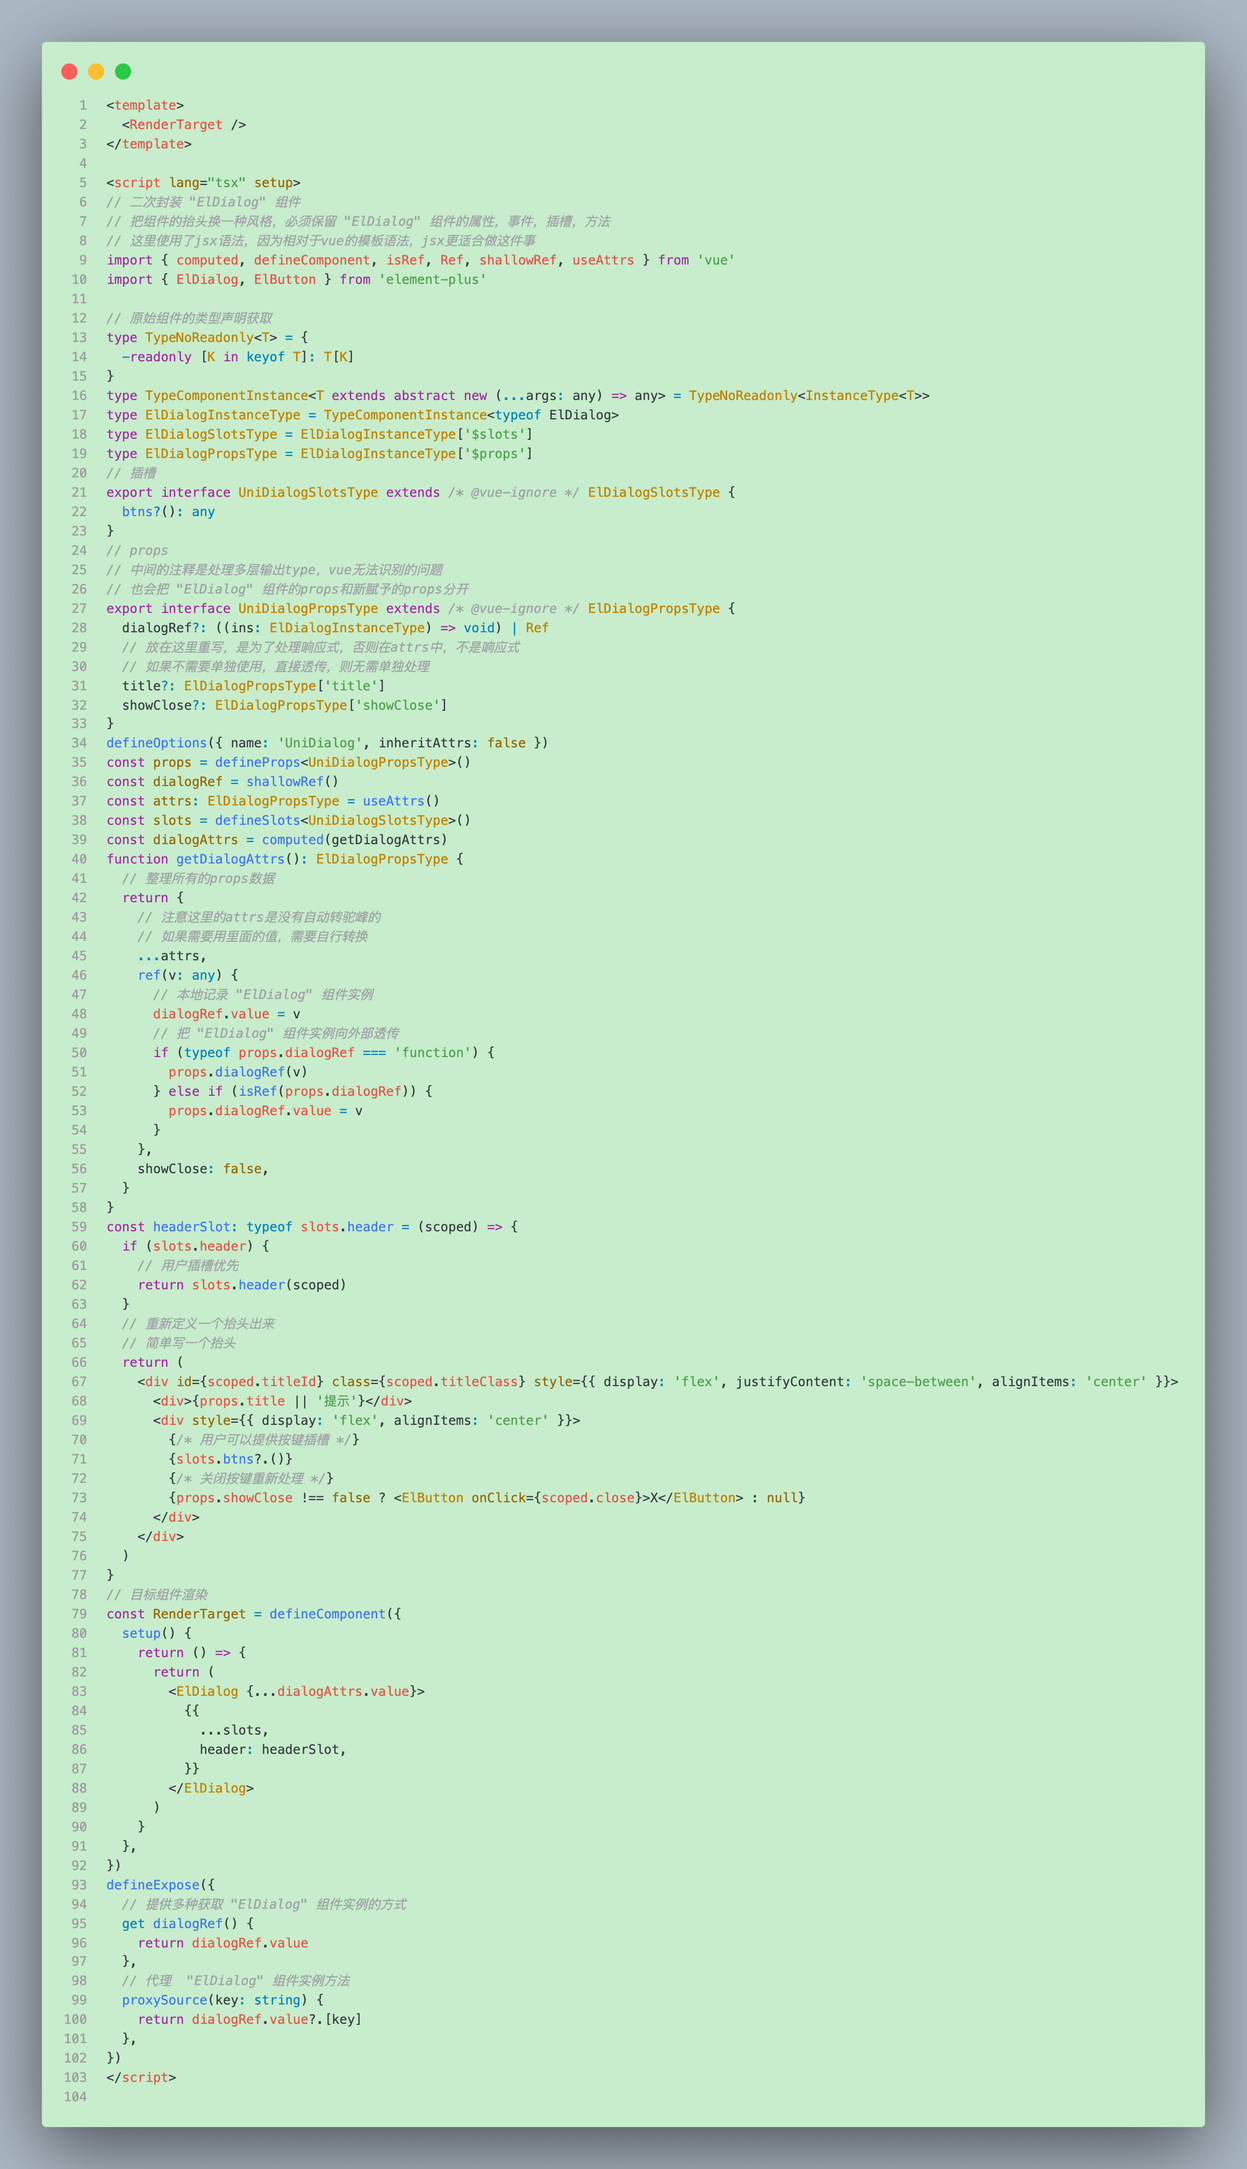
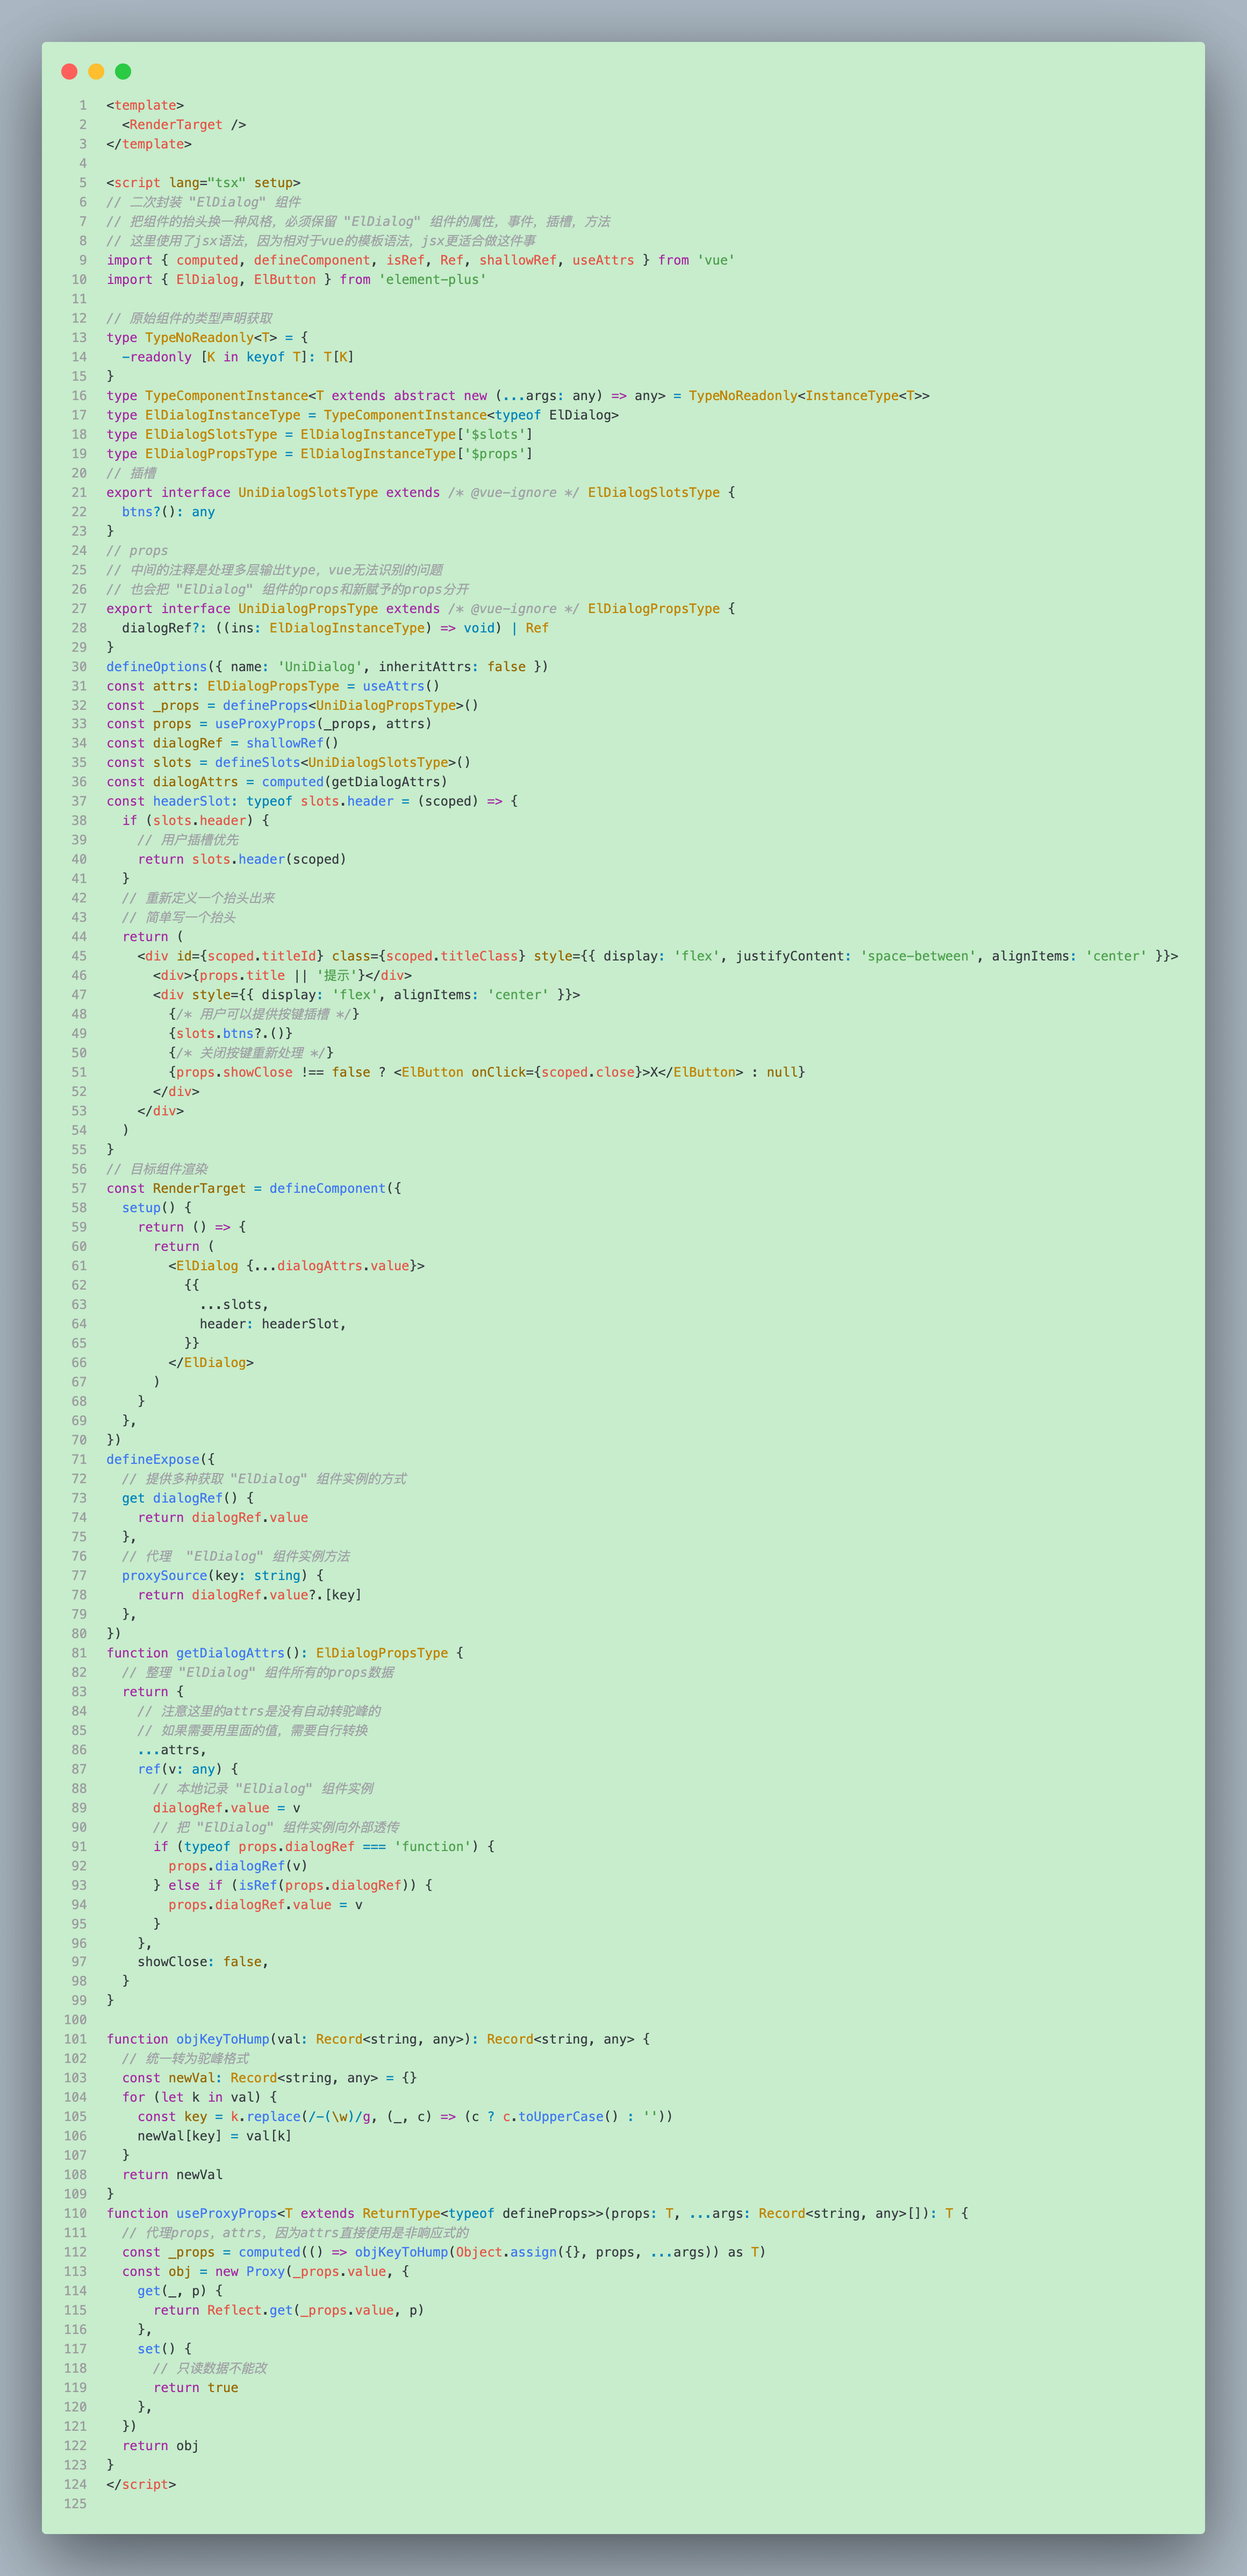
代理props

diff --git a/src/UniDialog.vue b/src/UniDialog.vue
@@ -26,36 +26,14 @@ export interface UniDialogSlotsType extends /* @vue-ignore */ ElDialogSlotsType 
 // 也会把 "ElDialog" 组件的props和新赋予的props分开
 export interface UniDialogPropsType extends /* @vue-ignore */ ElDialogPropsType {
   dialogRef?: ((ins: ElDialogInstanceType) => void) | Ref
-  // 放在这里重写，是为了处理响应式，否则在attrs中，不是响应式
-  // 如果不需要单独使用，直接透传，则无需单独处理
-  title?: ElDialogPropsType['title']
-  showClose?: ElDialogPropsType['showClose']
 }
 defineOptions({ name: 'UniDialog', inheritAttrs: false })
-const props = defineProps<UniDialogPropsType>()
-const dialogRef = shallowRef()
 const attrs: ElDialogPropsType = useAttrs()
+const _props = defineProps<UniDialogPropsType>()
+const props = useProxyProps(_props, attrs)
+const dialogRef = shallowRef()
 const slots = defineSlots<UniDialogSlotsType>()
 const dialogAttrs = computed(getDialogAttrs)
-function getDialogAttrs(): ElDialogPropsType {
-  // 整理所有的props数据
-  return {
-    // 注意这里的attrs是没有自动转驼峰的
-    // 如果需要用里面的值，需要自行转换
-    ...attrs,
-    ref(v: any) {
-      // 本地记录 "ElDialog" 组件实例
-      dialogRef.value = v
-      // 把 "ElDialog" 组件实例向外部透传
-      if (typeof props.dialogRef === 'function') {
-        props.dialogRef(v)
-      } else if (isRef(props.dialogRef)) {
-        props.dialogRef.value = v
-      }
-    },
-    showClose: false,
-  }
-}
 const headerSlot: typeof slots.header = (scoped) => {
   if (slots.header) {
     // 用户插槽优先
@@ -100,4 +78,47 @@ defineExpose({
     return dialogRef.value?.[key]
   },
 })
+function getDialogAttrs(): ElDialogPropsType {
+  // 整理 "ElDialog" 组件所有的props数据
+  return {
+    // 注意这里的attrs是没有自动转驼峰的
+    // 如果需要用里面的值，需要自行转换
+    ...attrs,
+    ref(v: any) {
+      // 本地记录 "ElDialog" 组件实例
+      dialogRef.value = v
+      // 把 "ElDialog" 组件实例向外部透传
+      if (typeof props.dialogRef === 'function') {
+        props.dialogRef(v)
+      } else if (isRef(props.dialogRef)) {
+        props.dialogRef.value = v
+      }
+    },
+    showClose: false,
+  }
+}
+
+function objKeyToHump(val: Record<string, any>): Record<string, any> {
+  // 统一转为驼峰格式
+  const newVal: Record<string, any> = {}
+  for (let k in val) {
+    const key = k.replace(/-(\w)/g, (_, c) => (c ? c.toUpperCase() : ''))
+    newVal[key] = val[k]
+  }
+  return newVal
+}
+function useProxyProps<T extends ReturnType<typeof defineProps>>(props: T, ...args: Record<string, any>[]): T {
+  // 代理props，attrs，因为attrs直接使用是非响应式的
+  const _props = computed(() => objKeyToHump(Object.assign({}, props, ...args)) as T)
+  const obj = new Proxy(_props.value, {
+    get(_, p) {
+      return Reflect.get(_props.value, p)
+    },
+    set() {
+      // 只读数据不能改
+      return true
+    },
+  })
+  return obj
+}
 </script>
